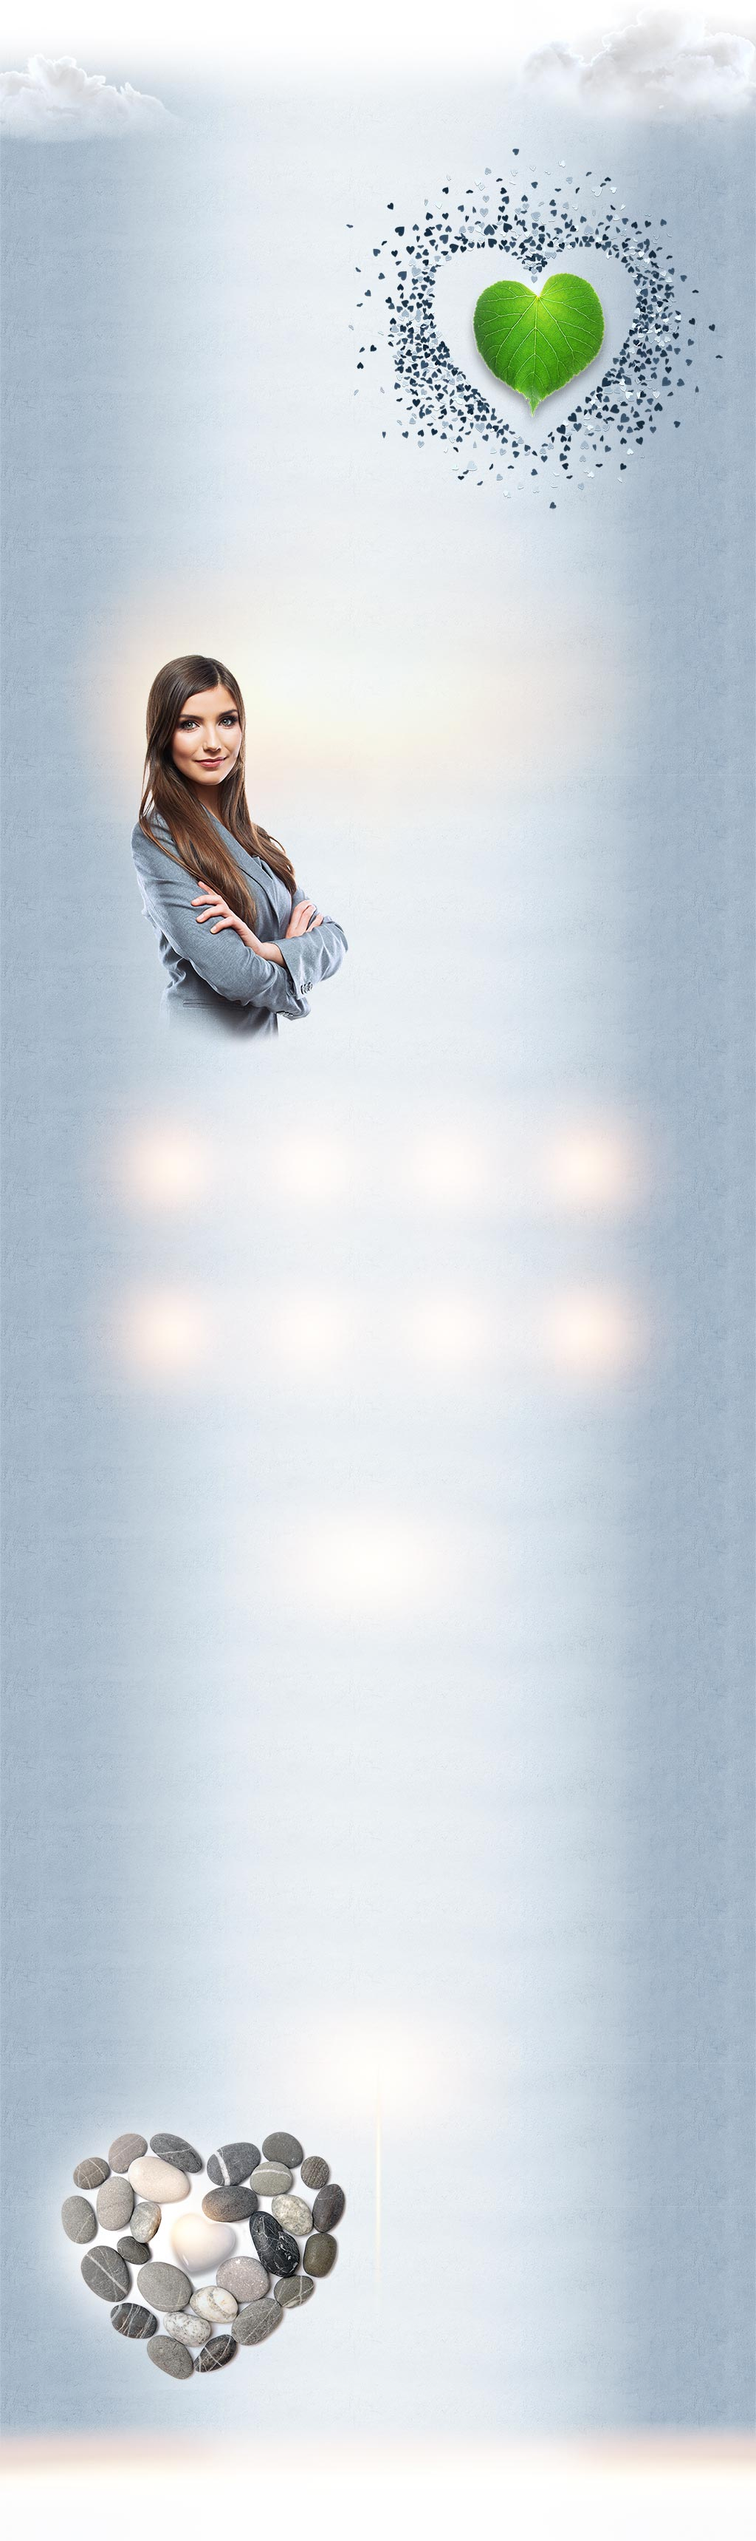
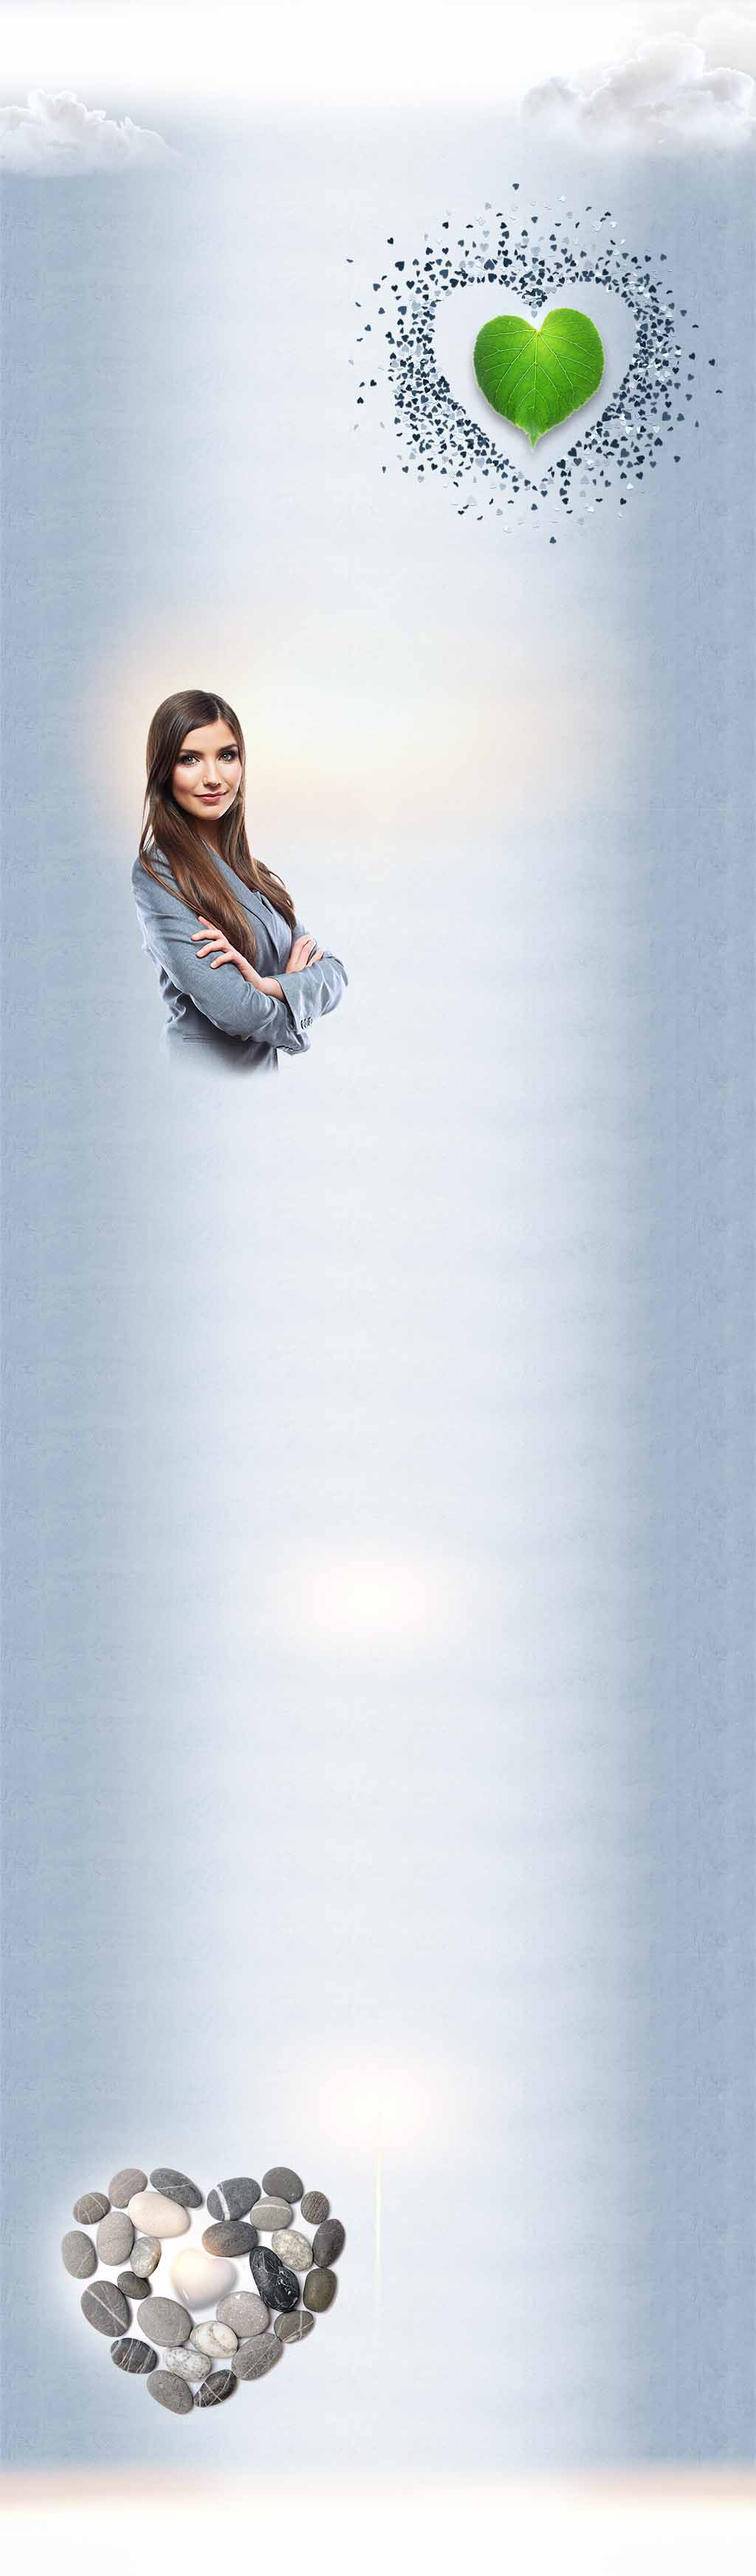
Ksenya_Artman 1024 finished

diff --git a/Ksenya_Artman/css/responsive1024.css b/Ksenya_Artman/css/responsive1024.css
@@ -1,6 +1,6 @@
 @media screen and (max-width: 1024px) {
   body {
-    background: url(../img/main-1024-top.jpg) no-repeat;
+    background: url(../img/main-1024-top.webp) no-repeat;
     background-size: 100%; }
 
   .bottom_bgr {
@@ -57,14 +57,25 @@
     padding-right: 0; }
 
   section#about {
-    padding-bottom: 13rem; }
+    padding-bottom: 13rem;
+    /*padding: 1rem 8rem 19rem 8rem*/
+  }
 
   .doc {
     margin-top: 25rem;
   }
 
-  .feature-item {
-    grid-template-rows: 16rem 4rem 10rem 4rem;
+  section#about .holder-right p {
+    font-size: 1.75rem;
+    max-width: 31rem;
+  }
+
+  /*.feature-item {*/
+  /*  grid-template-rows: 16rem 4rem 10rem 4rem;*/
+  /*}*/
+
+  .feature-item h4 {
+    margin: 0;
   }
 
   .about-item{
@@ -81,23 +92,32 @@
     max-width: 89rem; }
 
   section#external_dif p {
-    font-size: 1.3rem;
-    max-width: 44%;
-    line-height: 1.8rem;
-    margin-top: 2.5rem; }
+    font-size: 1.6rem;
+    max-width: 50%;
+    line-height: 2rem;
+    margin-top: 2.5rem;
+  }
 
   section#external_dif {
     padding-bottom: 14.3rem;
-    padding-top: 1rem; }
+    padding-top: 4rem; }
 
   section#portfolio .more-btn-wrap.see-more-btn {
     margin-top: 2.1rem; }
 
+
+  section#live_position {
+    padding-bottom: 8em;
+  }
+
+
   section#live_position .section-text p {
-    font-size: 1.35rem;
-    line-height: 1.8rem;
+    font-size: 1.45rem;
+    line-height: 2.2rem;
     padding-left: 0;
-    margin-right: 0; }
+    margin-right: 0;
+    margin-top: 2.5rem;
+  }
 
   section#live_position .section-text h4 {
     margin-bottom: 1.3rem; }
@@ -108,12 +128,29 @@
   section#live_position .section-header h3 {
     margin-bottom: 2.3rem; }
 
+  section#live_position .container .col-7 {
+    padding-left: 8rem;
+  }
+
+  section#doc {
+     margin-top: 0rem;
+    padding-top: 13rem;
+  }
+
+
   .filter-numb {
     font-size: 1.6rem; }
 
+  /*.feature-item {*/
+  /*  grid-template-rows: 4rem 13rem;*/
+  /*}*/
+
   section#about .feature-item p {
-    line-height: 1.8rem;
-    margin-bottom: 1rem; }
+    line-height: 2.5rem;
+    margin-bottom: 1rem;
+    font-size: 1.6rem;
+    padding: 1.4rem 1rem 0rem 0rem;
+  }
 
   section#about .row.features-items .more-btn-wrap {
     margin-top: 1.6rem; }
@@ -133,9 +170,9 @@
 
   section#workes .direktor p.direktor-text-1 {
     padding-left: .4rem;
-    line-height: 1.8rem;
+    line-height: 2.2rem;
     margin-bottom: 1.3rem;
-    font-size: 1.3rem; }
+    font-size: 1.45rem; }
 
   section#workes .direktor p.direktor-text-2 {
     padding-left: .4rem;
@@ -193,7 +230,7 @@
   }
 
   section#contact {
-    /*padding-top: 14rem; */
+    padding-top: 0rem;
   }
 
   section#contact p {
@@ -201,6 +238,10 @@
     max-width: 35rem;
     font-size: 1.5rem;
     line-height: 1.7rem; }
+
+  section#contact .col-6 {
+    padding-top: 5rem;
+  }
 
   form#form2 input.btn-sub {
     font-size: 1.1rem; }
@@ -238,7 +279,7 @@
     padding: 0 1.45rem; }
 
   footer.footer {
-    padding-top: 12.5rem;
+    padding-top: 7rem;
     padding-bottom: 7.5rem; }
 
   .scroll-to-top {
@@ -260,7 +301,7 @@
     display: block !important; }
 
   section#contact .vert-title span {
-    left: calc(50% - 19rem); }
+    left: calc(50% - 19.5rem); }
 }
 @media screen and (max-width: 768px) {
     .category__item  {

diff --git a/Ksenya_Artman/css/euromedialab.css b/Ksenya_Artman/css/euromedialab.css
@@ -724,6 +724,11 @@ section#plans .feature-item-ico .ico-glow img {
     padding-top: 3rem;
     z-index: 1;
     font-size: 1.42rem; }
+
+.doc-item.feature-item h4 {
+  margin: 0 auto;
+}
+
   .feature-item p {
     margin: 0 auto;
     margin-bottom: 2.9rem;

diff --git a/Ksenya_Artman/css/responsive1365.css b/Ksenya_Artman/css/responsive1365.css
@@ -99,8 +99,8 @@
   .feature-item:nth-child(4) {
     right: -2.9rem; }
 
-  .feature-item h4 {
-    margin: 0 auto;
+  section#about .feature-item h4 {
+    margin: 0;
     font-size: 2rem;
     margin-bottom: 1rem;
     text-align: left;
